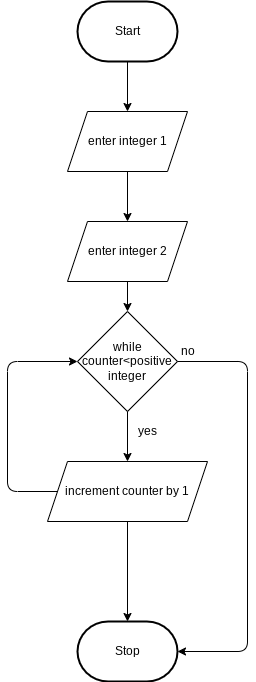
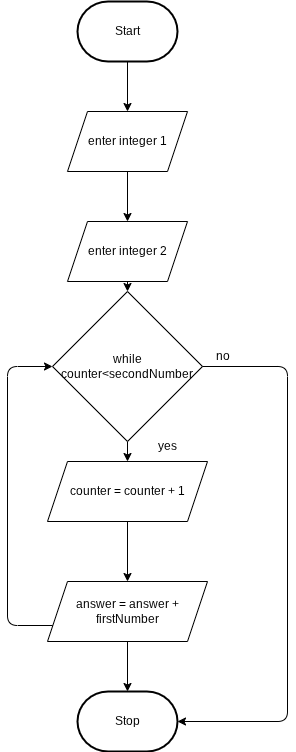
edits!

diff --git a/js/script.js b/js/script.js
@@ -5,7 +5,7 @@
 // This file contains the JS functions for index.html
 
 "use strict"
-
+// this function does multiplication using a while loop!
 function calculate() {
 
   // input
